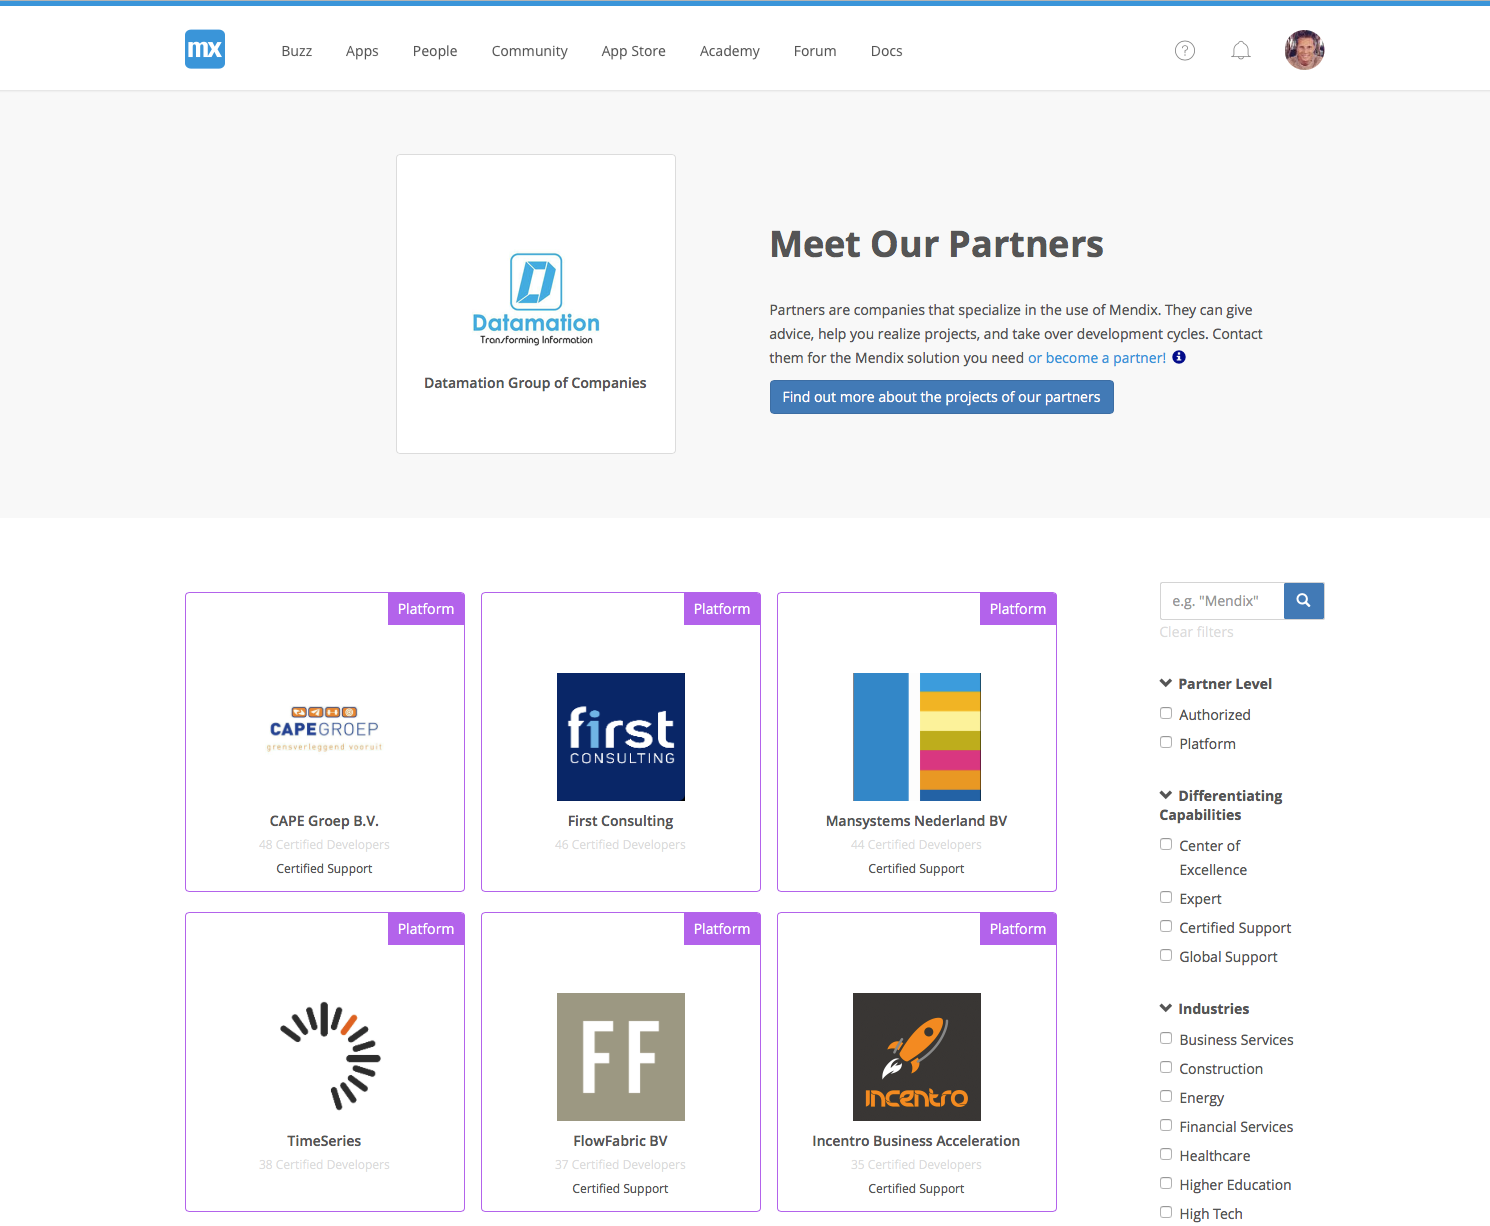
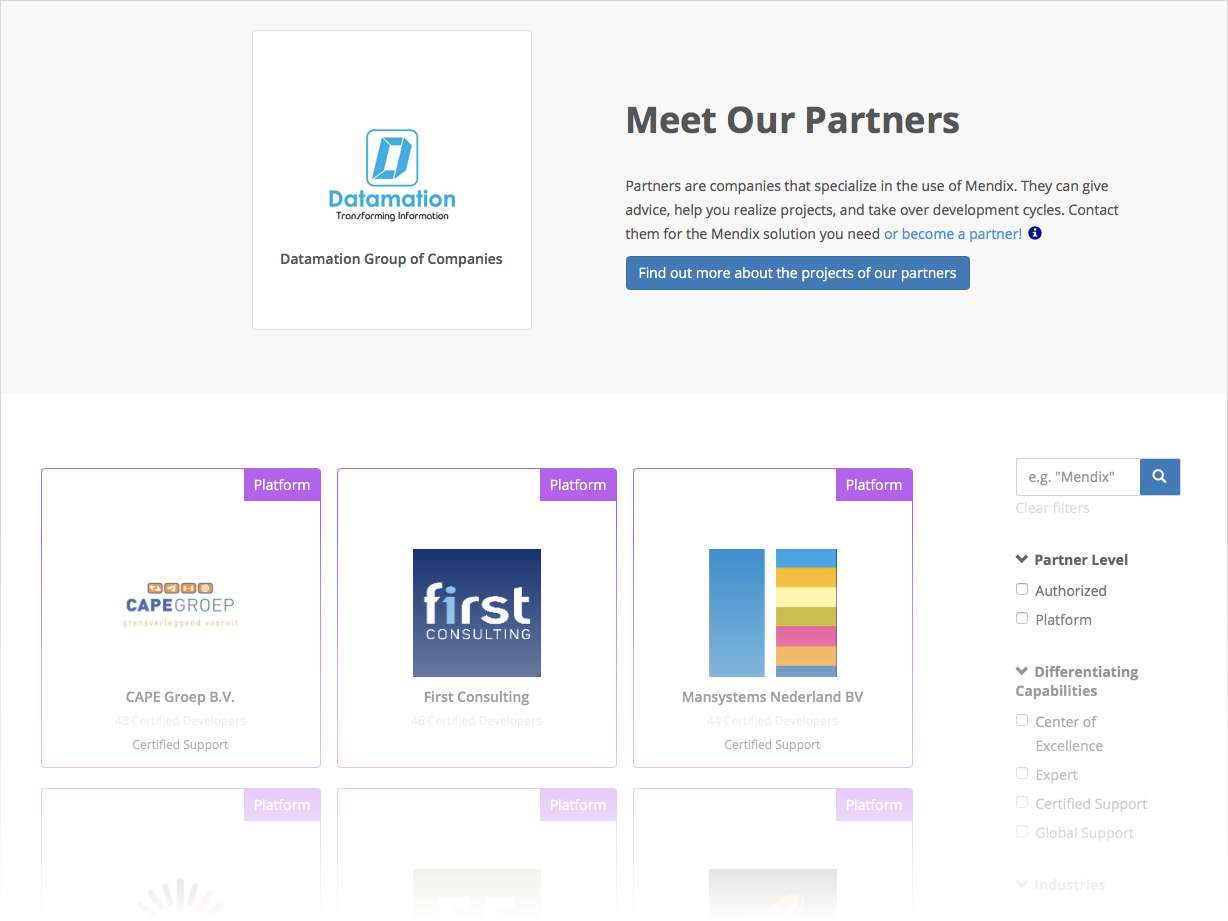
Review to-do's

diff --git a/content/evaluation-guide/app-dev-process.md b/content/evaluation-guide/app-dev-process.md
@@ -20,7 +20,7 @@ This section explains the concept of the Mendix Development process (BizDevOps) 
 
 Adopting the Mendix Development process (BizDevOps) in combination with the Mendix low-code development platfrom shortens the feedback loop drastically, which increases the efficiency, resulting in better outcomes, lower the costs of app developerment and shortens the time to market. 
 
-In Mendix app development projects there is an instant feedback loop, within the development team, between the business analysts and the developers. Due the Mendix platform capabilities as [one-click-deployment](LINK ADAM) and [visual modeling] the development team can handle a hourly feedback loop from the business / product owner. It's often the provisioning of the feedback from business, not the planning and reception by development team, which determines the duration of the feedback loop. In practice, over all Mendix projects, this results in a feedback loop of two weeks till a month between the business and the development this. This is a decrease from a 12 month feedback loop in Waterfall projects:
+In Mendix app development projects there is an instant feedback loop, within the development team, between the business analysts and the developers. Due the Mendix platform capabilities as one-click-deployment and visual modeling the development team can handle a hourly feedback loop from the business / product owner. It's often the provisioning of the feedback from business, not the planning and reception by development team, which determines the duration of the feedback loop. In practice, over all Mendix projects, this results in a feedback loop of two weeks till a month between the business and the development this. This is a decrease from a 12 month feedback loop in Waterfall projects:
 
 * **12 months, Waterfall** – Due to the bigger teams, the linear approach, and the fact that feedback could only be given on full working applications, the feedback loop in Waterfall projects reached up to 12 months.
 * **6 months, Agile** – The iterative process—with providing feedback on an MVP instead of on a full working application—resulted in a 6-month feedback loop for Agile software development projects.

diff --git a/content/evaluation-guide/app-lifecycle/requirements-overview.md b/content/evaluation-guide/app-lifecycle/requirements-overview.md
@@ -10,7 +10,9 @@ tags: ["agile", "project management", "feedback", "dashboard", "traceability"]
 
 {{% todo %}}Discuss: Should this be a featured question?{{% /todo %}}
 
-### 1.1 Demands on Delivered Applications Evolving Over Time
+Requirements management is fully embedded in the Mendix Platform because of the reasons described in detail below.
+
+### 1.1 Meeting Demands on Delivered Apps as They Evolve Over Time
 
 Development teams need to deliver applications that achieve business objectives from day 1 and match & exceed user’s needs & expectations while staying current with changes in these objectives, needs & expectations throughout the lifetime of the applications. In order for the development team to be truly effective, they need a thorough understanding of those business objectives & user needs. This means they need to better understand their business stakeholders who identified the need for the application, and users who will actually use the application. Collaboratively, they need to create a deep shared understanding of business objectives, user needs and expectations. However, because objectives, needs and expectations evolve throughout the lifetime of the application, so must the shared understanding of the extended team evolve.
 
@@ -20,7 +22,7 @@ So how does the extended team get to a shared understanding of those business ob
 
 These reuqirements means that the extended team needs an integrated environment in which they are encouraged to interact continuously between development team, key users and business stakeholders so that assumptions can be validated, feedback can be gathered and in general incorrect understanding can be set straight.
 
-### 1.3 Collaborating on Business Requirements with the Mendix Platform
+### 1.3 Collaborating on Business Requirements via the Mendix Platform
 
 The Mendix Platform enables development teams, users and other stakeholders to grow this shared understanding of the business requirements through multiple channels that are completely integrated into the platform.
 

diff --git a/content/evaluation-guide/enterprise-capabilities/architecture-platform.md b/content/evaluation-guide/enterprise-capabilities/architecture-platform.md
@@ -12,10 +12,6 @@ The Mendix Platform is a completely integrated application platform-as-a-service
 
 The below diagram provides an overview of the key components of the Mendix Platform.
 
-{{% todo %}}[add cross-references above to each part of doc below]{{% /todo %}}
-
-{{% todo %}}[Developer Portal instead of Projects Portal]{{% /todo %}}
-
 ![](attachments/architecture-overview.png)
 
 ## 2 What Are the Main Mendix Platform Modules & Services?
@@ -38,9 +34,7 @@ The Developer Portal is where you do most of your requirements management and tr
 
 ### 2.2 What Are the Mendix Modelers? {#modelers}
 
-The [Desktop Modeler](https://docs.mendix.com/refguide/desktop-modeler-overview) and [Web Modeler](https://docs.mendix.com/refguide/web-modeler/overview-wm) are the multi-user modeling studios of the Mendix Platform. The general purpose of the Modelers is to provide an integrated, unified modeling space, where business analysts, and IT engineers can work closely together to model the various application elements. The Desktop Modeler runs locally on the developer’s computer and has an integrated build service for working fully offline, while the Web Modeler is hosted on the Mendix public cloud.
-
-{{% todo %}}[Add link to Mendix Cloud]{{% /todo %}}
+The [Desktop Modeler](https://docs.mendix.com/refguide/desktop-modeler-overview) and [Web Modeler](https://docs.mendix.com/refguide/web-modeler/overview-wm) are the multi-user modeling studios of the Mendix Platform. The general purpose of the Modelers is to provide an integrated, unified modeling space, where business analysts, and IT engineers can work closely together to model the various application elements. The Desktop Modeler runs locally on the developer’s computer and has an integrated build service for working fully offline, while the Web Modeler is hosted on the [Mendix Cloud](../app-capabilities/mendix-cloud-overview).
 
 ### 2.3 What Is the Team Server? {#team-server}
 

diff --git a/content/evaluation-guide/app-lifecycle/index.md b/content/evaluation-guide/app-lifecycle/index.md
@@ -4,7 +4,7 @@ tags: [""]
 notoc: true
 ---
 
-Mendix is the only high-productivity application platform (hpaPaaS) for low-code app development that provides a comprehensive and integrated set of tools and services for managing the entire app lifecycle. From ideation and development through deployment, maintenance, and analytics, the Mendix Platform supports capabilities like social collaboration, Agile project management,  one-click deployment, application governance tools, and end-user feedback loops. This seamless support eliminates the traditional bottlenecks, costs, and risks associated with the delivery of apps while increasing quality and providing a better development experience for other stakeholders involved in the app lifecycle.
+Mendix is the only high-productivity application platform (hpaPaaS) for low-code app development that provides a comprehensive and integrated set of tools and services for managing the entire app lifecycle. From ideation and development through deployment, maintenance, and analytics, the Mendix Platform supports capabilities like social collaboration, Agile project management, one-click deployment, application governance tools, and end-user feedback loops. This seamless support eliminates the traditional bottlenecks, costs, and risks associated with the delivery of apps while increasing quality and providing a better development experience for other stakeholders involved in the app lifecycle.
 
 Read on in the chapters below to discover exactly how Mendix supports the entire application lifecycle.
 

diff --git a/content/evaluation-guide/app-capabilities/mobile-apps.md b/content/evaluation-guide/app-capabilities/mobile-apps.md
@@ -26,8 +26,6 @@ A Mendix mobile app can leverage various native capabilities via widgets that us
 
 The Mendix Platform generates the Mendix mobile app and provides all the logic to run the app. Via the [Mendix Developer Portal](https://sprintr.home.mendix.com/index.html), it is possible to customize the environment (test, acceptance, and production) as well as the necessary settings like app details, icons, splash screens, and permission settings. From the Developer Portal, it is also possible to build the app binaries without the need to install software like Xcode or Android Studio. The binaries can be downloaded from the Developer Portal and uploaded to the app stores.
 
-{{% todo %}}[**Video below to be used in this section as determined by Roald, please work into content**]{{% /todo %}}
-
 <video controls src="attachments/Eval_Mobile_PhoneGapBuild.mp4">VIDEO</video>
 
 Mendix also leverages [PhoneGap Build](https://build.phonegap.com/) to build the mobile app. This allows you to easily manage certificates and share the mobile app binaries (for example, via QR code). It is also possible to download the source of the mobile app and build locally. For more information, see the section [How Can I Extend My Mobile App?](#how-can-i-extend-my-mobile-app) below as well as [How to Publish a Mendix Hybrid Mobile App in Mobile App Stores](https://docs.mendix.com/howto/mobile/publishing-a-mendix-hybrid-mobile-app-in-mobile-app-stores) in the Mendix documentation.

diff --git a/content/evaluation-guide/app-capabilities/consuming-services.md b/content/evaluation-guide/app-capabilities/consuming-services.md
@@ -6,11 +6,7 @@ bg: "integration"
 tags: [""]
 ---
 
-## 1 How Does Mendix Support REST & Web Services? {#support-rest-web}
-
-{{% todo %}}[**Note from Adam: Andrej, this question is specified as necessary by Roald and will go on the landing page card. Please talk to Roald about any content issues.**]{{% /todo %}}
-
-## 2 How Can I Consume a REST API? {#consume-rest-api}
+## 1 How Can I Consume a REST API? {#consume-rest-api}
 
 Calling a REST service is simple. First, you define what the external resources you are going to use look like by creating a message definition. The easiest way to do this is usually to create a JSON structure by copying and pasting an example JSON message. Mendix will automatically determine the structure of your message and the applicable attribute types, as illustrated below.
 
@@ -26,7 +22,7 @@ Finally, you use the **Call REST** activity in your microflows to call the REST 
 <video controls src="attachments/Integration_CallRest.mp4">VIDEO</video>
 {{% /image_container %}}
 
-## 3 How Can I Consume a SOAP Service?
+## 2 How Can I Consume a SOAP Service?
 
 When you have a WSDL (either from a Mendix application or from a third-party application), you can import it into your Mendix application. All you have to do is create a new consumed web service document and specify the location of your WSDL.
 

diff --git a/content/evaluation-guide/app-lifecycle/collaboration-channels.md b/content/evaluation-guide/app-lifecycle/collaboration-channels.md
@@ -30,13 +30,11 @@ Anyone collaborating on app development with Mendix—whether you are a develope
 
 ![](attachments/buzz-mobile.png)
 
-{{% todo %}}[**Add  phone wrapper**]{{% /todo %}}
-
 ### 1.4 How Can Stakeholders Get Involved via Email Notifications?
 
 All the users involved in a Mendix application project receive relevant and timely email notifications for Buzz and other updates of interest. This includes responses to submitted feedback items and status changes such as feedback items that are completed.
 
-{{% todo %}}[**Screenshot of email notificaiton for buzz update**]{{% /todo %}}
+{{% todo %}}[**Add screenshot of email notification for buzz update**]{{% /todo %}}
 
 ### 1.5 How Can Stakeholders Get Involved via the Central Buzz? {#buzz}
 
@@ -60,14 +58,3 @@ By default, Mendix provides a set of sensible user roles, such as Scrum Master, 
 
 For more information, see [Roles Within the Company and Apps](https://docs.mendix.com/developerportal/general/roles) in the Mendix documentation.
 
-{{% todo %}}[**Content notes to delete **]{{% /todo %}}
-
-* Buzz (in the Portal)
-  * Communication, textual & visual
-  * Polls
-* Mendix app
-* Web Modeler
-* Desktop Modeler
-* Notifications
-  * Buzz updates → close micro feedback loop
-  * Sprint completion → close release feedback loop

diff --git a/content/evaluation-guide/app-lifecycle/requirements-management.md b/content/evaluation-guide/app-lifecycle/requirements-management.md
@@ -24,9 +24,11 @@ User story refinement is made even easier through the specific Buzz message thre
 ![](attachments/story-detail.png)
 {{% /image_container %}}
 
-Any updates to the conversation on the **Story Details** page are also pushed to the central Buzz wall and the [Mendix Mobile app](https://docs.mendix.com/refguide/getting-the-mendix-app). All the users involved in the conversations receive notifications by email.
+Any updates to the conversation on the **Story Details** page are also pushed to the central Buzz wall and the [Mendix mobile app](https://docs.mendix.com/refguide/getting-the-mendix-app). All the users involved in the conversations receive notifications by email.
 
-{{% todo %}}[**Screenshot of Buzz in Mendix Mobile app**]{{% /todo %}}
+{{% image_container width="450" %}}
+![](attachments/buzz-phone.png)
+{{% /image_container %}}
 
 This integrated experience enables engaging stakeholders in the development process in order to effectively capture and validate requirements. With the Mendix Developer Portal, the Mendix mobile app, and the notifications system, the Mendix Platform provides stakeholders a unified interface for all of your ongoing development activity and enables you to actively take part in that process.
 

diff --git a/content/evaluation-guide/use-cases.md b/content/evaluation-guide/use-cases.md
@@ -65,8 +65,6 @@ These are the key features that enable you to build customer engagement apps in 
 * **[The Atlas UI framework](app-capabilities/ui-design#atlas-ui)** enables you to build pixel perfect apps, and your company's UI/UX team to create a package containing the organization’s design language for use across development teams, ensuring consistency while broadly leveraging the skills of what could be a small UI/UX team
 * **[Horizontal scalability](enterprise-capabilities/architecture-principles#statelessness)** allows additional resources to be added easily as required to support increasing user or processing loads
 
-{{% todo %}}[**Best place to link for horizontal scalability?**]{{% /todo %}}
-
 Some examples of customer engagement app built with Mendix are agent/broker portals, customer portals, [self-service policy administration apps](https://www.mendix.com/our-customers/texas-life/), claims management apps, and student service applications for universities.
 
 ## 6 How Does Mendix Support Operational Efficiency Apps? {#operational-efficiency-apps}

diff --git a/content/evaluation-guide/app-lifecycle/ops-deployment-release.md b/content/evaluation-guide/app-lifecycle/ops-deployment-release.md
@@ -16,11 +16,9 @@ Before deploying an application, a deployment package is required. Using the Men
 
 <video controls src="attachments/DO_BuildingRevisionFromCloudPortal.mp4">Create a versioned deployment package from the Mendix Developer Portal</video>
 
-{{% todo %}}**[Note from Adam: why is this video used here and in 4.2? Should just be used once.]**{{% /todo %}}
-
 Once a revision of the application is created in the Deployment Package Repository, it can be staged into one of the available environments. The Mendix Developer Portal allows you to do this with just a few clicks.
 
-{{% todo %}}**[David: TODO: Add video showing staging/deployment.]**{{% /todo %}}
+{{% todo %}}**[David: Add video showing staging/deployment.]**{{% /todo %}}
 
 Development teams can fully automate this process by leveraging the [Deploy API](https://docs.mendix.com/apidocs-mxsdk/apidocs/deploy-api) in their [CI/CD tools and services of choice](cicd#cicd-other-tools).
 

diff --git a/content/evaluation-guide/evaluation-learning/support.md b/content/evaluation-guide/evaluation-learning/support.md
@@ -55,8 +55,6 @@ For more details, see [Mendix Support](https://docs.mendix.com/howtogeneral/supp
 
 Customers may wish to outsource the development and management of their applications to a partner. All Mendix development partners have to go through a training and verification process before they can qualify themselves as a Mendix partner. This helps us ensure that our partners deliver a level of service that meets our expectations.
 
-{{% todo %}}[**update the two screenshots below with the white gradient as used above**]{{% /todo %}}
-
 ![](attachments/partner-overview.png)
 
 Partners are ranked using the [Mendix Partner Profiles](https://developer.mendixcloud.com/link/partneroverview). Customers can see how many trained and certified engineers each partner has, their [projects](https://developer.mendixcloud.com/link/customers) they have completed, and their references. The partners can be filtered by experience, industry, and area.

diff --git a/content/evaluation-guide/app-capabilities/offline-apps.md b/content/evaluation-guide/app-capabilities/offline-apps.md
@@ -36,8 +36,10 @@ Mendix knows what data should be available offline based on automatic analysis o
 
 Mendix supports the standard [conflict resolution](https://appstore.home.mendix.com/link/app/66614/) patterns **first wins** and **last wins** as well as the possibility to trigger a human workflow to handle conflicts. These mechanisms can easily be extended by visually modelling the resolution with microflows.
 
-{{% todo %}}[**The videos below will be remade and are to be used in this section as determined by Roald, please work into the content**]{{% /todo %}}
+This video shows you how to edit the automatic sync feature:
 
 <video controls src="attachments/Eval_Mobile_OfflineSaveSync-1.mp4">VIDEO</video>
+
+And this video shows you how to configure the first-wins and last-wins actions:
 
 <video controls src="attachments/Eval_Mobile_SyncConflictApplyFirst.mp4">VIDEO</video>
